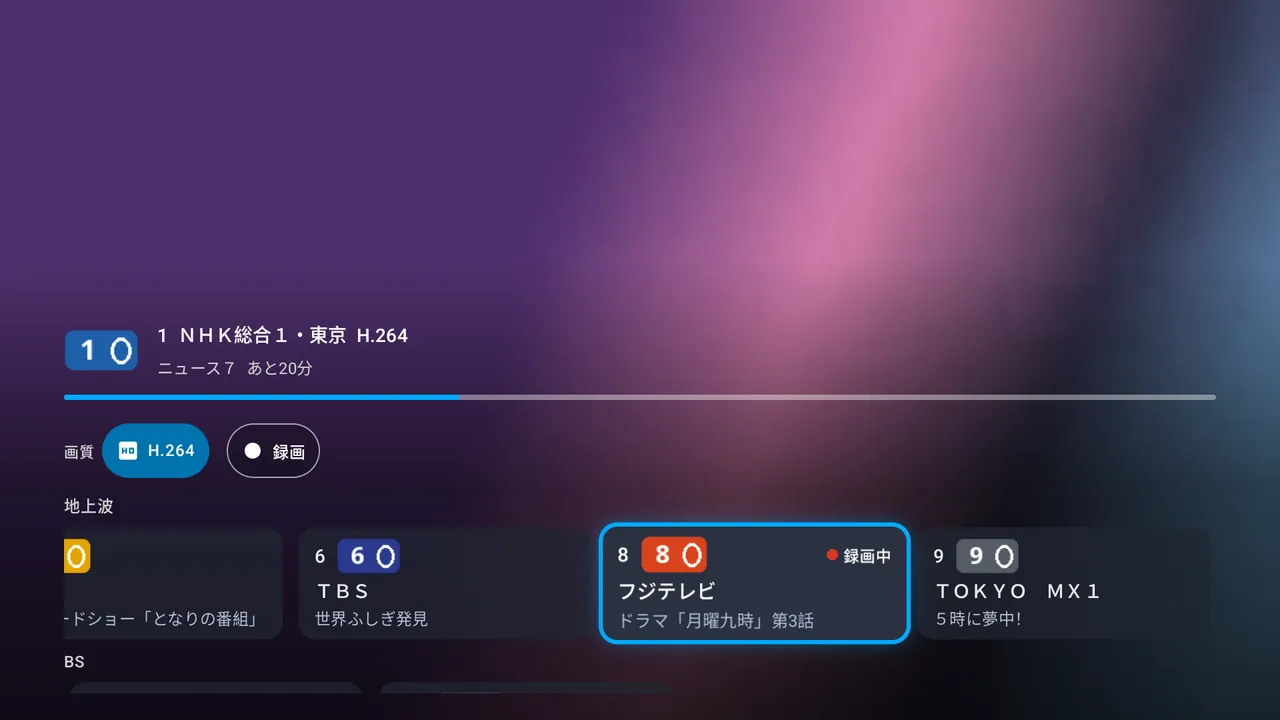
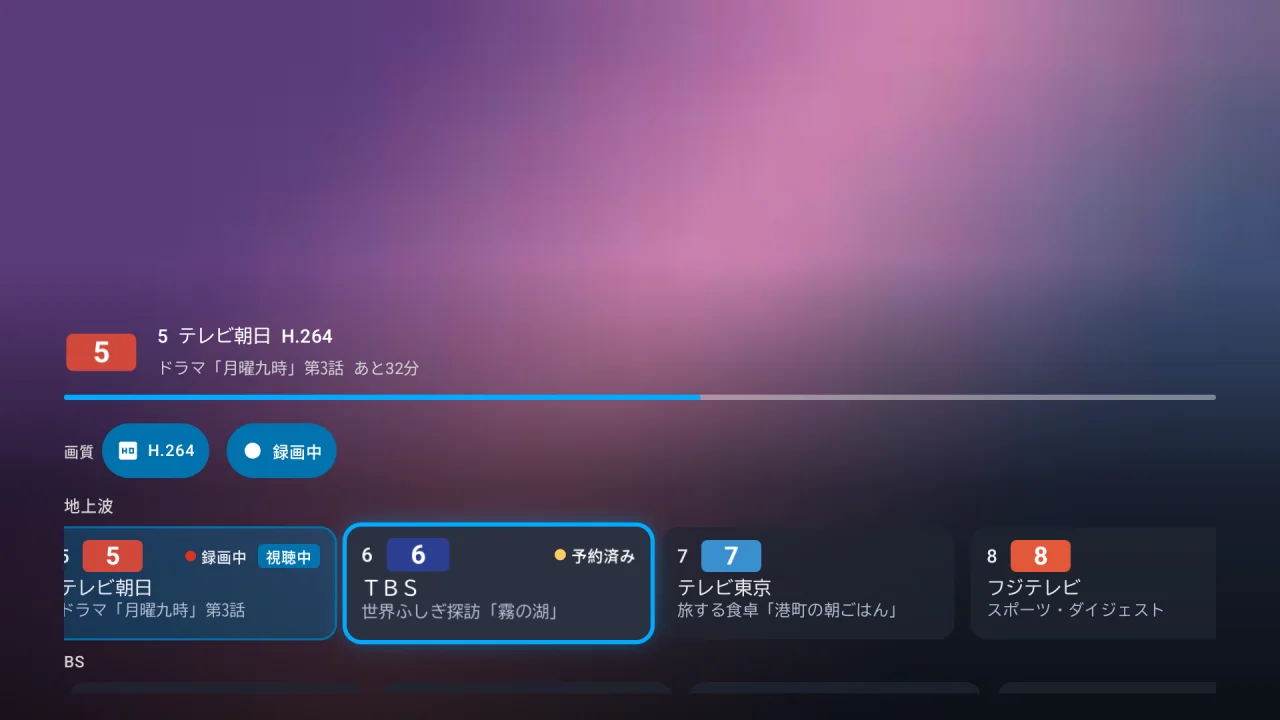
docs/images の絵を偽の denpa で撮り直し、alt と撮り方を合わせる
Claude-Session: https://claude.ai/code/session_01TG5bWNd7UBYqDbKKDsecbS

diff --git a/README.md b/README.md
@@ -4,14 +4,14 @@
 録画 (続きから・CM 飛ばし・追っかけ再生)、ライブ (局送り・録画)、字幕と音声の切り替えができます。
 
 <p align="center">
-  <img src="docs/images/navigation.webp" alt="録画の一覧から左のメニュー (頭に denpa の電波塔) を開いてライブへ。入ってすぐは局と番組とキーの手引き (左右で局送り・決定か下でメニュー・上で局の列・決定の長押しで番組) が出て、選局の間は回るものが出る。上キーで、いま映している局に合った局の列を開き、右で隣の局に合わせて決定で替える (替える間は前の局の絵のまま回るもの)。最後は右キーで次の BS の局へ送る" width="720">
+  <img src="docs/images/navigation.webp" alt="録画の一覧から左のメニュー (頭に denpa の電波塔) を開いてライブへ。入ってすぐは局と番組とキーの手引き (左右で局送り・決定か下でメニュー・上で局の列・決定の長押しで番組) が出て、選局の間は回るものが出る。上キーで、いま映している局に合った局の列を開き、右で隣の局に合わせて決定で替える (替える間は前の局の絵のまま回るもの)。最後は右キーで次の局へ送る (行き先の局と番組がすぐ出て、映ってからもしばらく出ている)" width="720">
 </p>
 
 | 録画 | 録画の再生 (下キー) |
 | --- | --- |
-| <img src="docs/images/recordings.webp" alt="録画の一覧。左に印だけの細いメニュー。上の段に、合わせている録画の番組名を大きく、局・放送日時・長さ、エンコード中 42% と形の札、説明の頭の1行。後ろにその録画の絵をぼかして暗く敷く。下に3列の大きなポスターのカード。ポスターの下の縁の暗い帯に番組名を白く太く2行まで (長い番組名は途中を「…」で縮めて話数「#3」「#1」を残す。まだ観ていないものは頭に水色の点)、ポスターの下に局と放送の時刻 (合わせたものは膨らんで水色の縁)。録っている最中のものは「● 録画中」、焼いている最中のものは「エンコード中 42%」の札。下の端で次の段のカードが覗く" width="420"> | <img src="docs/images/player-bar.webp" alt="録画の再生。下の端に小さく、番組名と位置、CM を色分けしたシークバー、操作の札が1行に収まって並ぶ: 一時停止・前へ・次へ・速さ・CM 飛ばし・字幕・音声・削除" width="420"> |
+| <img src="docs/images/recordings.webp" alt="録画の一覧。左に印だけの細いメニュー。上の段に、合わせている録画 (録っている最中のもの) の番組名を大きく、局・放送日時・長さ、「● 録画中」の札。後ろにその録画の絵をぼかして暗く敷く。下に3列の大きなポスターのカード。ポスターの下の縁の暗い帯に番組名を白く太く2行まで (長い番組名は途中を「…」で縮めて話数「#3」「#1」を残す。まだ観ていないものは頭に水色の点)、ポスターの下に局と放送の時刻 (合わせたものは膨らんで水色の縁)。録っている最中のものは「● 録画中」、焼いている最中のものは「エンコード中 42%」の札。下の端で次の日の段のカードが覗く" width="420"> | <img src="docs/images/player-bar.webp" alt="録画の再生。字幕を文字で描き、操作の列の上へ持ち上げている (上の行は縁取りの字と頭に音符の外字、下の行は半透明の地に黄色の囲みとルビ)。下の端に小さく、番組名と位置、シークバー、操作の札が1行に収まって並ぶ: 一時停止・前へ・次へ・速さ ×1・CM 飛ばし 入・字幕 入・削除" width="420"> |
 | **ライブのメニュー** (下・決定) | **局の列** (上キー) |
-| <img src="docs/images/live-menu.webp" alt="ライブの下の端に、局ロゴと局と番組・番組の進み、操作の札 (画質 H.264・録画)、その下に地上波の局の列が覗き、次の BS の列の頭が見える" width="420"> | <img src="docs/images/live-channels.webp" alt="局の列。地上波の局の札が横に並び、それぞれに番号・局ロゴ・局名・番組名。いま映している局は水色の地に「視聴中」、合わせたフジテレビの札は膨らんで水色の縁で「録画中」の印" width="420"> |
+| <img src="docs/images/live-menu.webp" alt="ライブの下の端に、局ロゴと局と番組・番組の進み、操作の札 (画質 H.264・録画中)、その下に地上波の局の列 (いまの局に「録画中」「視聴中」、隣の局に「予約済み」の印) が覗き、次の BS の列の頭が見える" width="420"> | <img src="docs/images/live-channels.webp" alt="局の列。地上波の局の札が横に並び、それぞれに番号・局ロゴ (番号を書いただけの作り物)・局名・番組名。いま映している局は「録画中」「視聴中」の印、合わせた TBS の札は膨らんで水色の縁で「予約済み」の印" width="420"> |
 
 絵は作り物の番組を返す偽の denpa で撮ったものです。ほかの画面と動きは [docs/usage.md](docs/usage.md)。
 

diff --git a/docs/usage.md b/docs/usage.md
@@ -6,11 +6,11 @@
 
 | **録画の詳しく** (カードの長押し) | **最後まで観たとき** |
 | --- | --- |
-| <img src="images/detail.webp" alt="録画の詳しく。番組名を大きく、その下に局・放送日時・長さの1行と観た位置の帯、形の札 (AV1・H.264・生TS)、横1列の札 (続きから再生 (0:12:22)・最初から・削除・閉じる。続きから再生に合っている)。下に1列で、説明と番組内容をまとめたあらすじ (続きの出演者・制作・主題歌・おしらせは下キーで読む)。後ろに録画の絵をうすく敷く" width="420"> | <img src="images/ended.webp" alt="録画の再生の終わり。下に「最後まで観ました」と、一覧に戻る・削除 (削除に合っている)" width="420"> |
+| <img src="images/detail.webp" alt="録画の詳しく。番組名を大きく、その下に局・放送日時・長さの1行と観た位置の帯、形の札 (AV1・H.264・生TS)、横1列の札 (続きから再生 (0:12:00)・最初から・削除・閉じる。続きから再生に合っている)。下に1列で、説明と番組内容をまとめたあらすじ、出演者、原作・脚本・制作・主題歌を小さく詰めて (おしらせは下キーで読む)。後ろに録画の絵をうすく敷く" width="420"> | <img src="images/ended.webp" alt="録画の再生の終わり。字幕は出したまま、下に「最後まで観ました」と、一覧に戻る・削除 (削除に合っている)" width="420"> |
 | **ライブ** (左右で局送り) | **局を替えている間** (長くかかったとき) |
 | <img src="images/live.webp" alt="ライブ。局を替えると、下の端に局と番組名と残り時間、番組の進みが数秒出る" width="420"> | <img src="images/live-tuning.webp" alt="前の局の絵のまま、真ん中に回るものと「選局しています」。下に替えた先の局と番組" width="420"> |
 | **ライブの詳しく** (決定の長押し・情報) | **再生中の詳しく** (決定の長押し) |
-| <img src="images/live-detail.webp" alt="ライブで決定を長押しして開いた、いま放送中の番組の詳しく。番組名、局ロゴと局・時間・長さ、番組の進みと残り (あと32分)、札 (● 録画中・ドラマ > 国内ドラマ・1080i MPEG-2・ステレオ (日本語)・解説ステレオ (日本語))、録画中と閉じるの札 (録画中に合っている)。下に1列で、説明と番組内容①②の段落、その下に出演者の見出し" width="420"> | <img src="images/player-detail.webp" alt="録画の再生中に決定を長押しして開いた詳しく。一覧のものと同じ並びで、札は閉じる・削除 (閉じるに合っている)。番組名、局・放送日時・長さ、形の札、1列のあらすじと、その下に出演者の見出し" width="420"> |
+| <img src="images/live-detail.webp" alt="ライブで決定を長押しして開いた、いま放送中の番組の詳しく。番組名、局ロゴと局・時間・長さ、番組の進みと残り (あと32分)、札 (● 録画中・ドラマ > 国内ドラマ・1080i MPEG-2・ステレオ (日本語)・解説ステレオ (日本語))、録画中と閉じるの札 (録画中に合っている)。下に1列で、説明と番組内容①②の段落、その下に出演者の見出し" width="420"> | <img src="images/player-detail.webp" alt="録画の再生中に決定を長押しして開いた詳しく。一覧のものと同じ並びで、札は閉じる・削除 (閉じるに合っている)。番組名、局・放送日時・長さ、形の札、説明。後ろに再生中の映像と字幕をうすく残す" width="420"> |
 | **追っかけ再生** (録画中の録画) | **設定** |
 | <img src="images/chase.webp" alt="追っかけ再生。下の端に「録画中」と番組名、位置と録れたところまでの長さと映している画質 (H.264)、シークバー、操作の札: 一時停止・最新・速さ・画質" width="420"> | <img src="images/settings.webp" alt="設定。幅いっぱいの札が2つ: 繋ぐ先 (押すと繋ぐ先を変える) と、バージョン (押すとアップデートを確かめ、「最新です」と出る。合っている)" width="420"> |
 | **繋ぐ** | |

diff --git a/docs/development.md b/docs/development.md
@@ -12,7 +12,17 @@
 
 ## 画面の絵
 
-`docs/images/` の絵は CI の Screenshots の流れ (`.github/workflows/screenshots.yml`) で撮ります。smoke/ の `Screenshots` が
-Android TV のエミュレータ (API 36、1080p) で、作り物の番組・録画・説明を返す偽の denpa に繋いで撮り、1280 幅の webp にします。
-番組名・人名は作り物で、ポスターと映像はぼかした場面に見えるように描いたもの、局ロゴは番号を書いただけの札、ライブは色の映像です
-(観た割合の帯や追っかけの「録画中」も、偽の denpa がそう返しているだけ)。
+`docs/images/` の絵は全部、CI の Screenshots の流れ (`.github/workflows/screenshots.yml`) で撮ります。smoke/ の `Screenshots` が
+Android TV のエミュレータ (API 36、1080p) で、作り物の局・番組・録画・説明 (`Showcase`) を返す偽の denpa に繋ぎ、
+繋ぐ画面 → 録画の一覧・詳しく → ライブ (局送り・選局の間・メニュー・局の列・詳しく) → 設定 → 録画の再生 (字幕・操作の列・詳しく・最後まで) → 追っかけ
+の順に撮って、1280 幅の webp にします。README の頭の動く絵 (`navigation.webp`) は、途中で撮ったこまを繋いだものです。
+番組名・人名・説明は作り物で、ポスターと映像はぼかした場面に見えるように描いたもの、局ロゴは番号を書いただけの札です
+(観た割合の帯・録画中・予約済み・エンコード中も、偽の denpa がそう返しているだけ)。局名だけは実在の名前です。
+
+撮り直すとき:
+
+1. Actions の Screenshots を手で走らせる (`gh workflow run screenshots.yml --ref <枝>`)
+2. 終わったら artifact (`shots`) を取ってきて (`gh run download <run id> -n shots`)、`docs/images/` にあるのと同じ名前の webp を上書きする
+3. 絵が変わったら、README・usage.md の alt も合わせる
+
+ライブの字幕は撮れません (生の TS でしか出ないが、エミュレータには MPEG-2 のデコーダが無く、生の TS を選べない)。字幕は録画の再生の絵に出ています。
